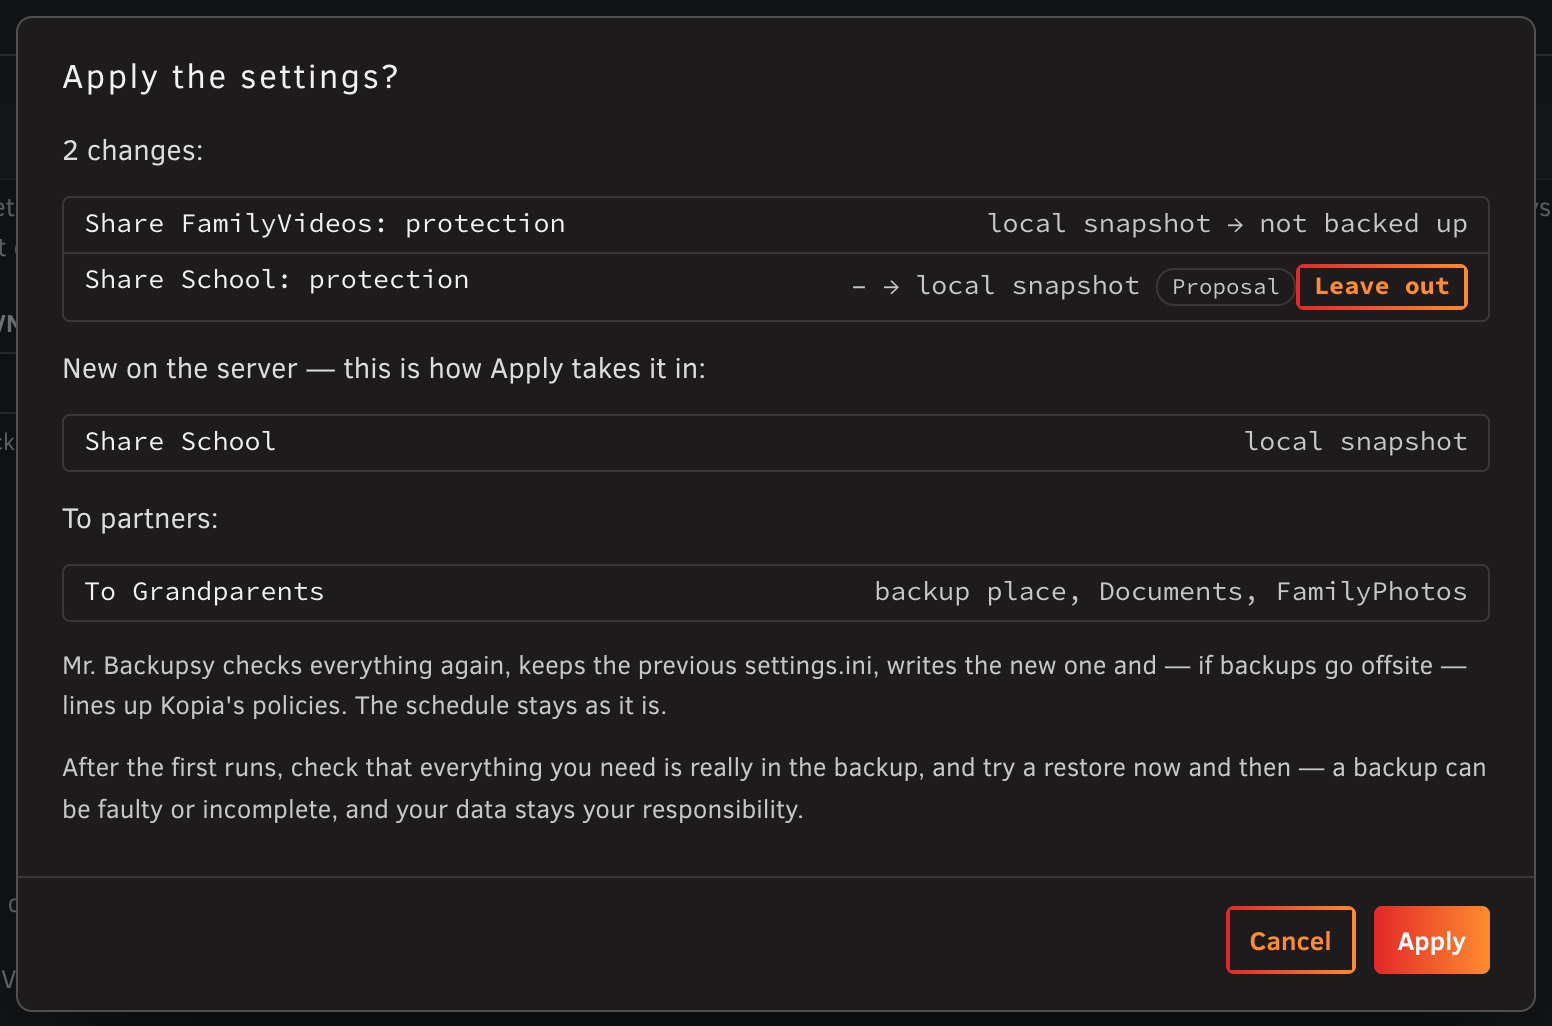
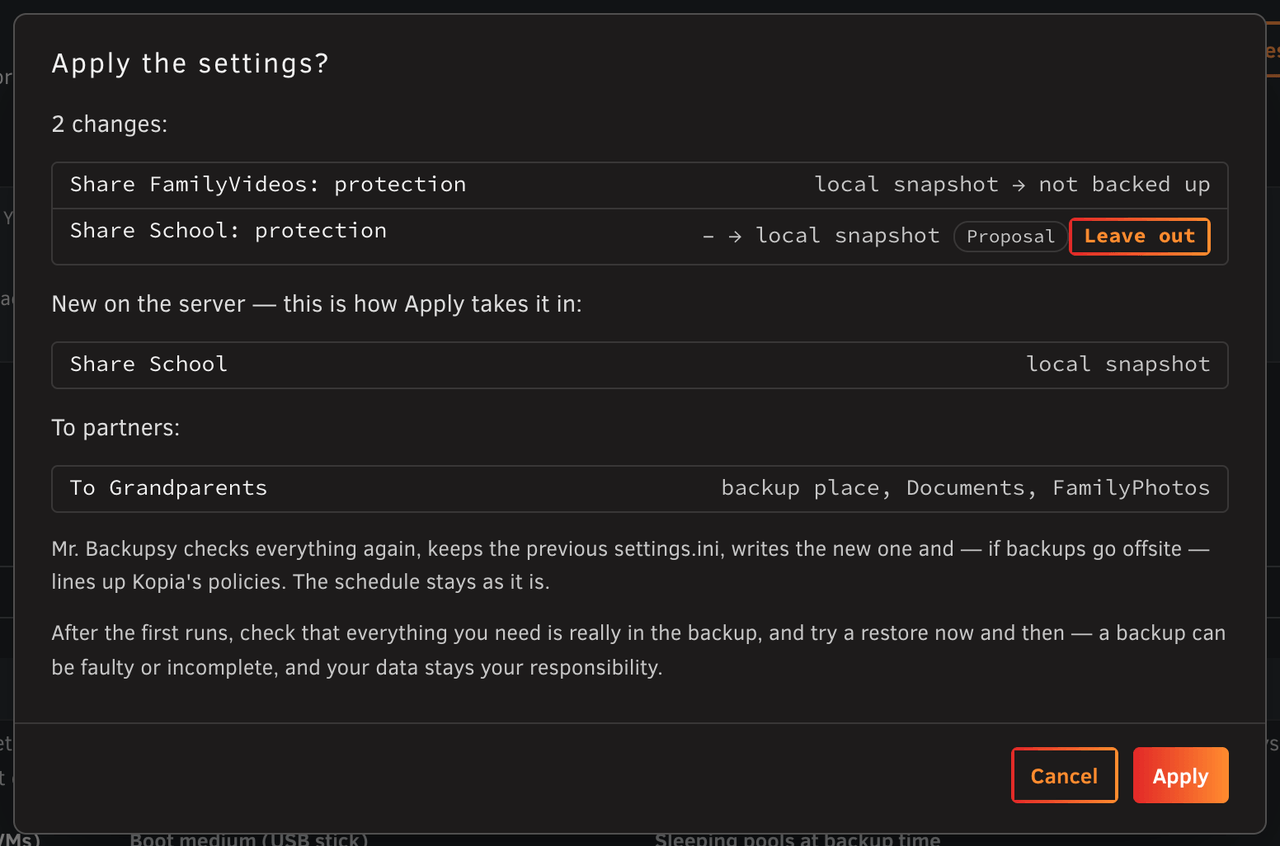
README pictures in dark and light: the tiles v2 moments, a <picture> pair each
docs/screenshots/<name>-dark.png and -light.png (English moments, at most 1280 px wide) for the
eleven README pictures; each <img> became <picture><source media="(prefers-color-scheme: dark)">
with the same alt text and anchor name. The names without a theme stay for the Community
Applications template (reception, backup, backup-setup, snapshot, watchman, cleanup-where - now
the new dark pictures); the five only README used went.

Changed region(s): [[0.5, 0.9835, 0.75, 1.0], [0.0938, 0.9835, 0.2812, 1.0], [0.0, 0.9835, 0.0312, 1.0]]

diff --git a/README.md b/README.md
@@ -12,7 +12,7 @@ with the office can keep each other's backups as partner offices, and the Night 
 or MikroTik router says about the server. It is a plugin: no container, no account, no cloud of ours, nothing locked. Every picture here, bigger and one click each, is on the
 [product page](https://uso.dropnook.app).
 
-<a name="reception-team"><img src="https://raw.githubusercontent.com/dropnook/UnraidSecretaryOffice/main/docs/screenshots/reception.png" alt="The reception: the whole team at a glance"></a>
+<a name="reception-team"><picture><source media="(prefers-color-scheme: dark)" srcset="https://raw.githubusercontent.com/dropnook/UnraidSecretaryOffice/main/docs/screenshots/reception-dark.png"><img src="https://raw.githubusercontent.com/dropnook/UnraidSecretaryOffice/main/docs/screenshots/reception-light.png" alt="The reception: the whole team at a glance"></picture></a>
 
 ## The staff
 
@@ -40,7 +40,7 @@ stays off (switch it on again in Mover Settings if you like). Hired
 again, his settings are as they were and the schedules stay off until you switch them on. *Change the order* at the
 reception puts the desks in the order you like.
 
-<a name="snapshot-why"><img src="https://raw.githubusercontent.com/dropnook/UnraidSecretaryOffice/main/docs/screenshots/snapshot.png" alt="Ms. Snapshotini: one snapshot in detail, why «used» and «new since» differ"></a>
+<a name="snapshot-why"><picture><source media="(prefers-color-scheme: dark)" srcset="https://raw.githubusercontent.com/dropnook/UnraidSecretaryOffice/main/docs/screenshots/snapshot-dark.png"><img src="https://raw.githubusercontent.com/dropnook/UnraidSecretaryOffice/main/docs/screenshots/snapshot-light.png" alt="Ms. Snapshotini: one snapshot in detail, why «used» and «new since» differ"></picture></a>
 
 ## What happens, end to end
 
@@ -68,7 +68,7 @@ What a new folder inherits ([BPMN source](docs/diagrams/new-folder.bpmn), [Germa
 
 <a name="diagram-new-folder"><img src="docs/diagrams/new-folder.svg" alt="A new folder: in a data share it inherits the share&#x27;s level; in appdata or domains the level of its app or VM; with no app or VM it stays local and waits for your decision"></a>
 
-<a name="backup-run"><img src="https://raw.githubusercontent.com/dropnook/UnraidSecretaryOffice/main/docs/screenshots/backup.png" alt="Mr. Backupsy: a run going on — its steps, its offsite sources, how long still"></a>
+<a name="backup-run"><picture><source media="(prefers-color-scheme: dark)" srcset="https://raw.githubusercontent.com/dropnook/UnraidSecretaryOffice/main/docs/screenshots/backup-dark.png"><img src="https://raw.githubusercontent.com/dropnook/UnraidSecretaryOffice/main/docs/screenshots/backup-light.png" alt="Mr. Backupsy: a run going on — its steps, its offsite sources, how long still"></picture></a>
 
 ### Getting something back
 
@@ -91,7 +91,7 @@ VM gets a **certificate**: which level is proven, from which copy, when; a step 
 wakes no disk, never runs during a parity check, ends well before the next backup and cleans up after itself (what an
 interrupted one left, Ms. Dustdevil clears away). What it left unchecked comes first the next time.
 
-<a name="restore-drill"><img src="https://raw.githubusercontent.com/dropnook/UnraidSecretaryOffice/main/docs/screenshots/restore-drill.png" alt="Mr. Restori: the drill passed — the level per app, the databases played back"></a>
+<a name="restore-drill"><picture><source media="(prefers-color-scheme: dark)" srcset="https://raw.githubusercontent.com/dropnook/UnraidSecretaryOffice/main/docs/screenshots/restore-drill-dark.png"><img src="https://raw.githubusercontent.com/dropnook/UnraidSecretaryOffice/main/docs/screenshots/restore-drill-light.png" alt="Mr. Restori: the drill passed — the level per app, the databases played back"></picture></a>
 
 ### The Night Watchman's round
 
@@ -119,7 +119,7 @@ Unraid's diagnostics or its kept syslog show), or the server went off without sh
 parity at every start until a stop is clean again; he says so once, and the Team Lead lists which time-out to raise
 (Docker + VMs + a margin) until a later stop is clean. He never starts, pauses or cancels a check.
 
-<a name="watchman-book"><img src="https://raw.githubusercontent.com/dropnook/UnraidSecretaryOffice/main/docs/screenshots/watchman.png" alt="The Night Watchman&#x27;s watch book: what was different from normal"></a>
+<a name="watchman-book"><picture><source media="(prefers-color-scheme: dark)" srcset="https://raw.githubusercontent.com/dropnook/UnraidSecretaryOffice/main/docs/screenshots/watchman-dark.png"><img src="https://raw.githubusercontent.com/dropnook/UnraidSecretaryOffice/main/docs/screenshots/watchman-light.png" alt="The Night Watchman&#x27;s watch book: what was different from normal"></picture></a>
 
 ### The search
 
@@ -150,7 +150,7 @@ than the one the office was tested on.
 header. A tile on Unraid's Dashboard shows the essentials: the messenger, the Team Lead's open points, the last and
 next backup. The green dot beside *⋯* means the messenger (the office's agent) checked in within the last 70 seconds.
 
-<a name="backup-apply"><img src="https://raw.githubusercontent.com/dropnook/UnraidSecretaryOffice/main/docs/screenshots/backup-setup.png" alt="Mr. Backupsy&#x27;s setup: «Apply the settings?» — 1 proposal of mine · 1 change of yours"></a>
+<a name="backup-apply"><picture><source media="(prefers-color-scheme: dark)" srcset="https://raw.githubusercontent.com/dropnook/UnraidSecretaryOffice/main/docs/screenshots/backup-setup-dark.png"><img src="https://raw.githubusercontent.com/dropnook/UnraidSecretaryOffice/main/docs/screenshots/backup-setup-light.png" alt="Mr. Backupsy&#x27;s setup: «Apply the settings?» — 1 proposal of mine · 1 change of yours"></picture></a>
 
 ## Updates and removal
 
@@ -182,7 +182,7 @@ containers without a picture, and sends a report only when you send one yourself
 of your reports, asks where they stand. No account, no telemetry. The desks never wake a sleeping disk unless you ask;
 the scheduled backup does, unless you tell it to leave sleeping pools out.
 
-<a name="cleanup-where"><img src="https://raw.githubusercontent.com/dropnook/UnraidSecretaryOffice/main/docs/screenshots/cleanup-where.png" alt="Ms. Dustdevil&#x27;s «Where is what»: the places that matter and how they are protected"></a>
+<a name="cleanup-where"><picture><source media="(prefers-color-scheme: dark)" srcset="https://raw.githubusercontent.com/dropnook/UnraidSecretaryOffice/main/docs/screenshots/cleanup-where-dark.png"><img src="https://raw.githubusercontent.com/dropnook/UnraidSecretaryOffice/main/docs/screenshots/cleanup-where-light.png" alt="Ms. Dustdevil&#x27;s «Where is what»: the places that matter and how they are protected"></picture></a>
 
 ## Languages and themes
 
@@ -208,7 +208,7 @@ makes it larger — both in your browser only.
 
 What was checked and what is still open: [HARDENING.md](HARDENING.md).
 
-<a name="cleanup-storeroom"><img src="https://raw.githubusercontent.com/dropnook/UnraidSecretaryOffice/main/docs/screenshots/storeroom.png" alt="Ms. Dustdevil&#x27;s storeroom: nothing is thrown away at once"></a>
+<a name="cleanup-storeroom"><picture><source media="(prefers-color-scheme: dark)" srcset="https://raw.githubusercontent.com/dropnook/UnraidSecretaryOffice/main/docs/screenshots/storeroom-dark.png"><img src="https://raw.githubusercontent.com/dropnook/UnraidSecretaryOffice/main/docs/screenshots/storeroom-light.png" alt="Ms. Dustdevil&#x27;s storeroom: nothing is thrown away at once"></picture></a>
 
 ## Partner offices
 
@@ -221,7 +221,7 @@ a **restore ticket** — a door for seven days that only hands over those copies
 pulls the backup place first, then the shares and VMs. ZFS only, and the partner can read the copies — for a friend,
 Kopia is the encrypted way.
 
-<a name="caretaker-partner"><img src="https://raw.githubusercontent.com/dropnook/UnraidSecretaryOffice/main/docs/screenshots/partner.png" alt="The Team Lead: a partner office at the grandparents&#x27;, copies both ways"></a>
+<a name="caretaker-partner"><picture><source media="(prefers-color-scheme: dark)" srcset="https://raw.githubusercontent.com/dropnook/UnraidSecretaryOffice/main/docs/screenshots/partner-dark.png"><img src="https://raw.githubusercontent.com/dropnook/UnraidSecretaryOffice/main/docs/screenshots/partner-light.png" alt="The Team Lead: a partner office at the grandparents&#x27;, copies both ways"></picture></a>
 
 ## Notifications
 
@@ -267,7 +267,7 @@ stands — received, looked at, done — and, once the makers opened a public Gi
 («Issue #…»). For that the office asks the inbox when you open the dialog (each report at most once an hour), with
 nothing but the reports' numbers in the inbox and the office's report ID.
 
-<a name="office-report"><img src="https://raw.githubusercontent.com/dropnook/UnraidSecretaryOffice/main/docs/screenshots/report.png" alt="«Your reports»: a wish, built and public as Issue #14"></a>
+<a name="office-report"><picture><source media="(prefers-color-scheme: dark)" srcset="https://raw.githubusercontent.com/dropnook/UnraidSecretaryOffice/main/docs/screenshots/report-dark.png"><img src="https://raw.githubusercontent.com/dropnook/UnraidSecretaryOffice/main/docs/screenshots/report-light.png" alt="«Your reports»: a wish, built and public as Issue #14"></picture></a>
 
 ## Special thanks
 
@@ -280,7 +280,7 @@ we changed is listed at the top of their READMEs. Ms. Moverelli (still in traini
 listed in its README, GPL-3.0-or-later. helmi1987 also tested the office early and sent the reports that made it
 better. Thank you, helmi1987 — a share of the tips goes to him.
 
-<a name="emby-live"><img src="https://raw.githubusercontent.com/dropnook/UnraidSecretaryOffice/main/docs/screenshots/emby-live.png" alt="Jack Emby live: EmbyCache gets ready for each person what they watch next"></a>
+<a name="emby-live"><picture><source media="(prefers-color-scheme: dark)" srcset="https://raw.githubusercontent.com/dropnook/UnraidSecretaryOffice/main/docs/screenshots/emby-live-dark.png"><img src="https://raw.githubusercontent.com/dropnook/UnraidSecretaryOffice/main/docs/screenshots/emby-live-light.png" alt="Jack Emby live: EmbyCache gets ready for each person what they watch next"></picture></a>
 
 ## License
 
